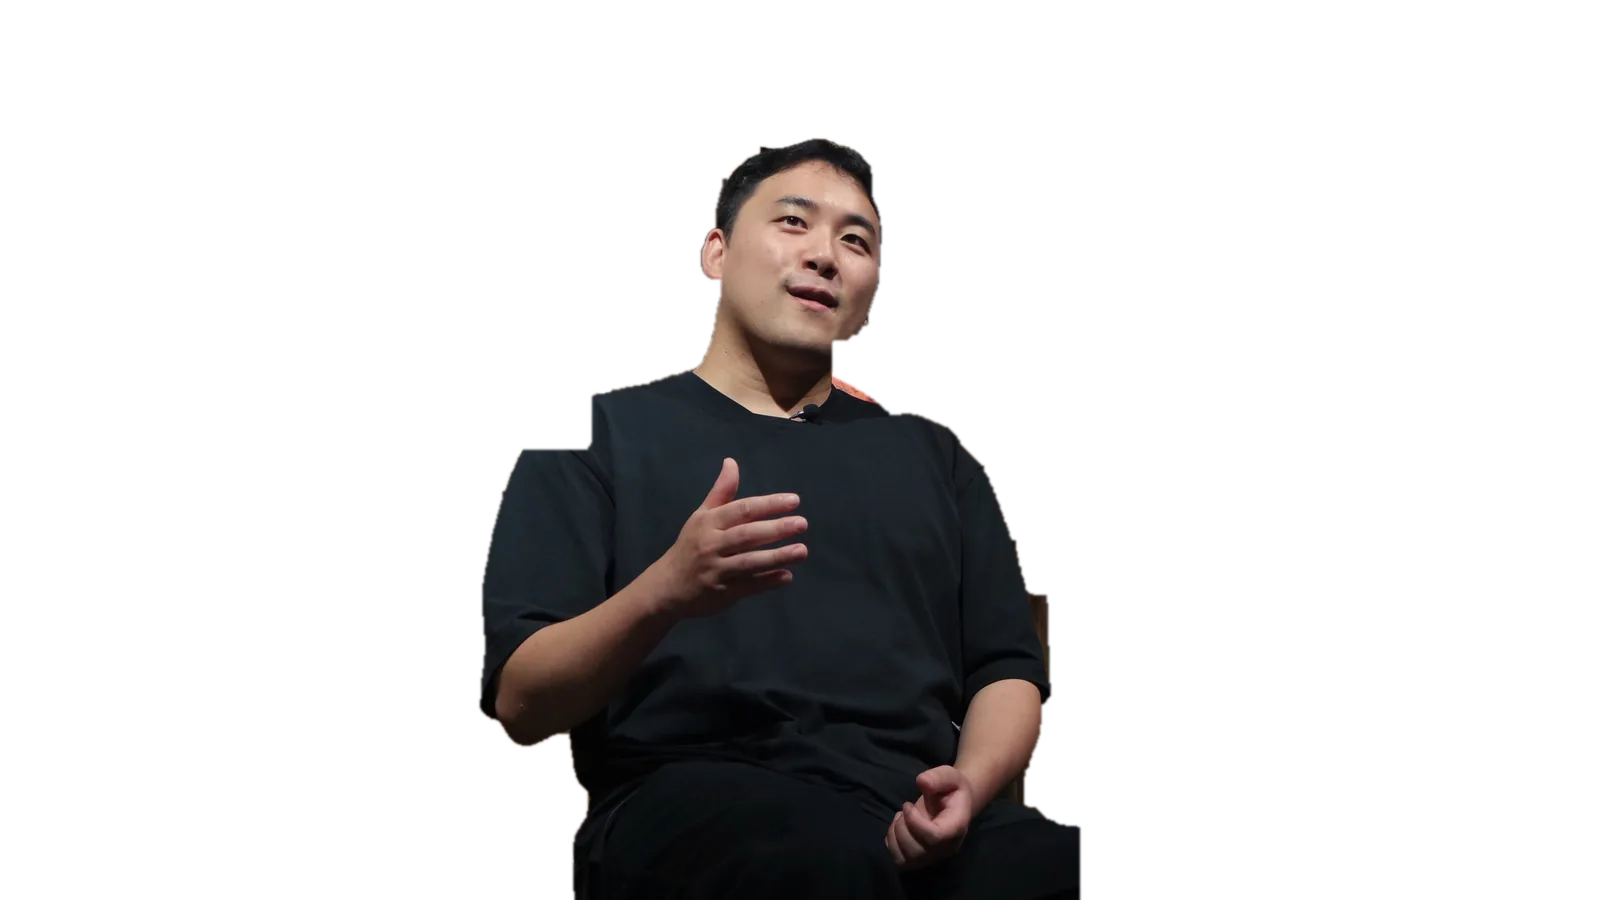
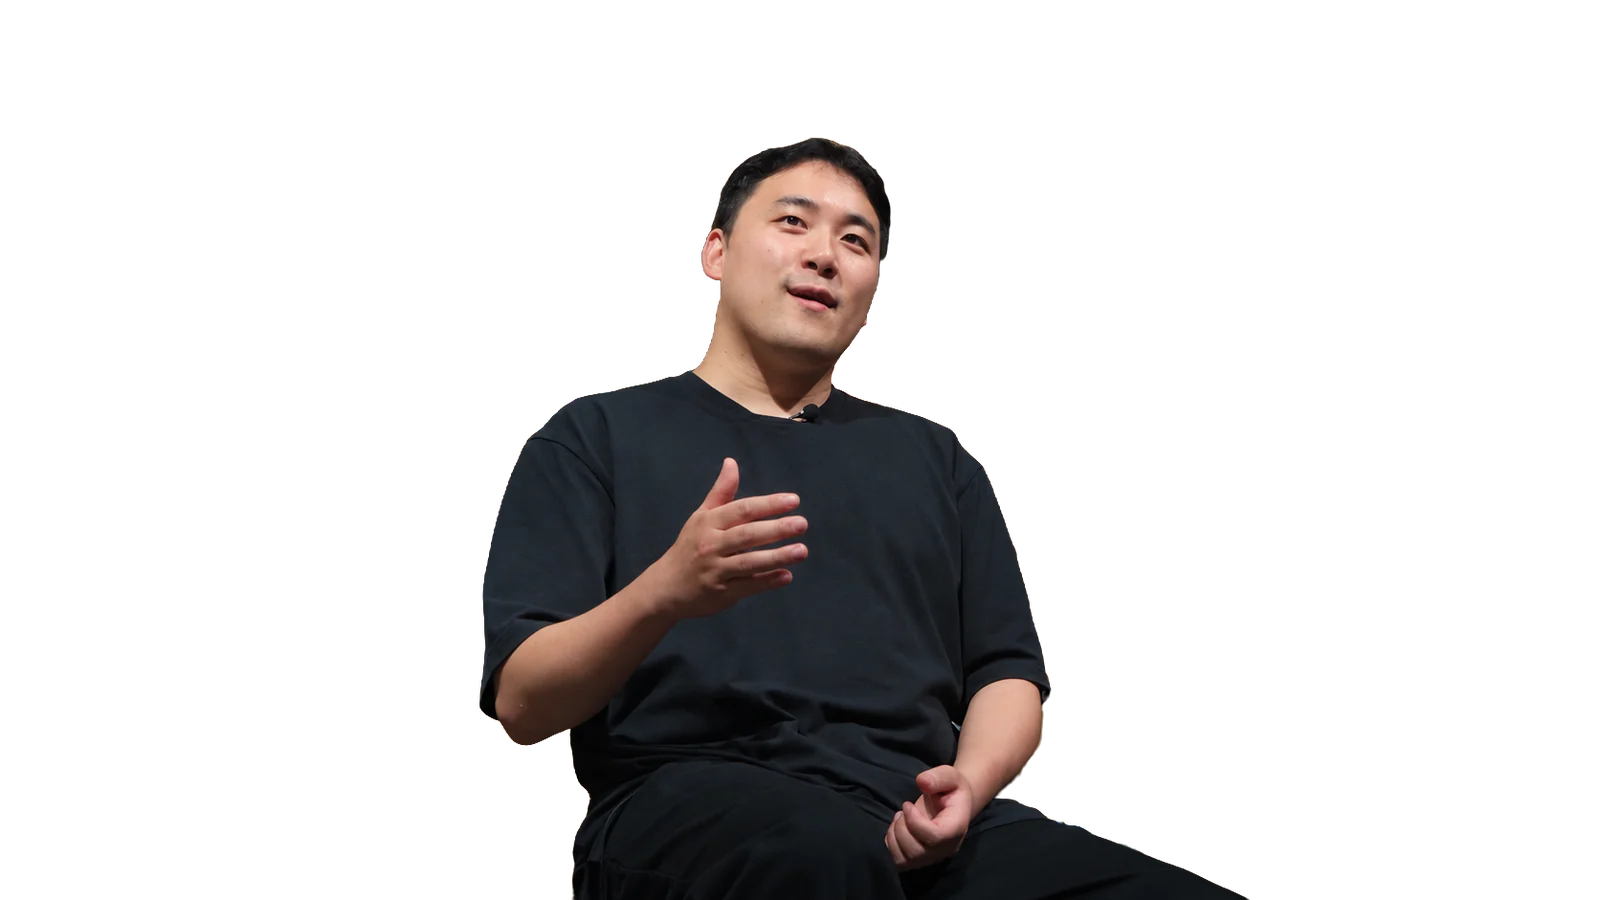
서브메인 파랑오브레코즈샵 슬라이드: 밝기 손본 사진과 새 누끼 (세 언어)
- interview-03-photo.jpg?v=2: 사용자가 준 사진(같은 장면, 어긋남 0px, 184KB)
- interview-03-cut.webp?v=2: rembg(isnet-general-use)로 새로 땀, 반투명하게 묻은 배경 정리 (39KB)
- 원본·마스크는 reference/tools/cut-03/, CLAUDE.md에 적음

diff --git a/public/index.html b/public/index.html
@@ -159,7 +159,7 @@
         </article>
         <article class="person person--photo person--photo-low" data-tone="photo" aria-labelledby="person-3-name" aria-roledescription="슬라이드" data-index="3">
           <!-- 배경: 팀이 직접 찍은 실사 사진 -->
-          <img class="person__photo" src="images/interview-03-photo.jpg" width="1600" height="900"
+          <img class="person__photo" src="images/interview-03-photo.jpg?v=2" width="1600" height="900"
                alt="파랑오브레코즈샵 인터뷰 사진: 나무 진열장 앞 의자에 앉아 손짓하며 이야기하는 사람">
           <header class="person__top">
             <div>
@@ -171,7 +171,7 @@
           <div class="person__center">
             <h3 class="person__name" id="person-3-name"><span class="sr-only">파랑오브레코즈샵: 찰나의 제주를 사진과 공간으로 기록하다</span><span class="person__back" aria-hidden="true"><span class="person__line person__line--back">찰나의<br>제주를</span></span><span class="person__front" aria-hidden="true"><span class="person__line person__line--front">사진과 공간으로<br>기록하다</span></span></h3>
             <!-- 인물만 오려 낸 사진: 배경 사진과 똑같은 자리에 겹쳐, 첫 줄 글자가 인물 뒤로 들어가 보이게 -->
-            <img class="person__photo person__cut" src="images/interview-03-cut.webp" width="1600" height="900" alt="">
+            <img class="person__photo person__cut" src="images/interview-03-cut.webp?v=2" width="1600" height="900" alt="">
           </div>
           <div class="person__bottom">
             <p class="person__desc">바다가 머무는 곳으로 삶의 주파수를 맞췄습니다.<br>취향을 공간에 담아내며 온전한 제주의 이웃으로 자리 잡았습니다.</p>

diff --git a/public/ja/index.html b/public/ja/index.html
@@ -153,7 +153,7 @@
           </div>
         </article>
         <article class="person person--photo person--photo-low" data-tone="photo" aria-labelledby="person-3-name" aria-roledescription="スライド" data-index="3">
-          <img class="person__photo" src="../images/interview-03-photo.jpg" width="1600" height="900"
+          <img class="person__photo" src="../images/interview-03-photo.jpg?v=2" width="1600" height="900"
                alt="パラン・オブ・レコーズのインタビュー写真：木の陳列棚の前の椅子に座り、身ぶりを交えて話す人">
           <header class="person__top">
             <div>
@@ -164,7 +164,7 @@
           </header>
           <div class="person__center">
             <h3 class="person__name" id="person-3-name"><span class="sr-only">パラン・オブ・レコーズ：一瞬の済州を、写真と空間に記録する</span><span class="person__back" aria-hidden="true"><span class="person__line person__line--back">一瞬の<br>済州を</span></span><span class="person__front" aria-hidden="true"><span class="person__line person__line--front">写真と空間に<br>記録する</span></span></h3>
-            <img class="person__photo person__cut" src="../images/interview-03-cut.webp" width="1600" height="900" alt="">
+            <img class="person__photo person__cut" src="../images/interview-03-cut.webp?v=2" width="1600" height="900" alt="">
           </div>
           <div class="person__bottom">
             <p class="person__desc">海がとどまる場所へ、暮らしの周波数を合わせました。<br>好きなものを空間に詰め込みながら、済州の本当の隣人として根を下ろしました。</p>

diff --git a/public/en/index.html b/public/en/index.html
@@ -153,7 +153,7 @@
           </div>
         </article>
         <article class="person person--photo person--photo-low" data-tone="photo" aria-labelledby="person-3-name" aria-roledescription="slide" data-index="3">
-          <img class="person__photo" src="../images/interview-03-photo.jpg" width="1600" height="900"
+          <img class="person__photo" src="../images/interview-03-photo.jpg?v=2" width="1600" height="900"
                alt="Parang of Records interview photo: a person sitting in a chair in front of a wooden display shelf, gesturing while talking">
           <header class="person__top">
             <div>
@@ -164,7 +164,7 @@
           </header>
           <div class="person__center">
             <h3 class="person__name" id="person-3-name"><span class="sr-only">Parang of Records: Recording fleeting moments of Jeju in photos and spaces</span><span class="person__back" aria-hidden="true"><span class="person__line person__line--back">Fleeting<br>Jeju,</span></span><span class="person__front" aria-hidden="true"><span class="person__line person__line--front">kept in photos<br>and spaces</span></span></h3>
-            <img class="person__photo person__cut" src="../images/interview-03-cut.webp" width="1600" height="900" alt="">
+            <img class="person__photo person__cut" src="../images/interview-03-cut.webp?v=2" width="1600" height="900" alt="">
           </div>
           <div class="person__bottom">
             <p class="person__desc">I tuned my life to a place where the sea lingers.<br>Filling a space with what I love, I have settled in as a true Jeju neighbor.</p>

diff --git a/CLAUDE.md b/CLAUDE.md
@@ -393,6 +393,10 @@ ijejumin-webzine/
         - 원본 사진·마스크는 `reference/tools/cut-01/`. 다시 만들기: `reference/tools/cut-02/face_boost.py reference/tools/cut-01/source.webp reference/tools/cut-01/mask-final.png public/images/interview-01-cut-b.webp 1`
       - 밝기: 위 누끼 밝기(1.22·1.26배)가 밝게 손본 새 사진 위에 더해져 "너무 밝아서 다 날아갔어"라 뺐다. 이제 사진 그대로 (얼굴 쪽 PC 107·휴대폰 108)
         - 그래서 `--cut-bright` CSS는 이제 어디에도 쓰지 않는다 (백록마케팅은 얼굴만 누끼 그림에 바로 밝힘)
+  - 파랑오브레코즈샵(세 번째 슬라이드) 사진도 사용자가 준 밝기 손본 사진으로 바꾸고 누끼를 rembg(isnet-general-use)로 새로 땄다 (사용자 요청 2026-10-29, 세 언어 서브메인)
+    - 같은 장면이라 어긋남 0px, 평균 밝기 43 → 52. `interview-03-photo.jpg?v=2`(184KB)·`interview-03-cut.webp?v=2`(39KB, 두 파일 모두 서브메인에서만 씀)
+    - 원본은 사용자가 내려받은 압축 파일(`Downloads/drive-download-20261029T074355Z-1-001.zip`의 '파랑.png', 1672×941). 채팅에 붙인 그림은 파일로 남지 않아 거기서 꺼냈다
+    - 원본·마스크는 `reference/tools/cut-03/`. CSS 밝기는 쓰지 않는다
   - 엠아이티도그 사진(04, 전 '에밀리')은 사용자가 준 더 넓은 사진(손까지 나옴)으로 바꿨다 (2026-10-22). 1600×900으로 줄여 넣었다
     - 휴대폰에서 사진을 0.92배로 줄여 양옆에 어두운 여백이 생기던 것을 없앴다. 이제 줄이지 않고 위로 12% 당긴다 ("인물 더 올려줘")
     - 같은 이름으로 바꿨기 때문에 휴대폰이 예전 사진을 캐시에서 꺼내 썼다. 그래서 `index.html`의 두 사진 주소 끝에 `?v=2`를 붙였다
